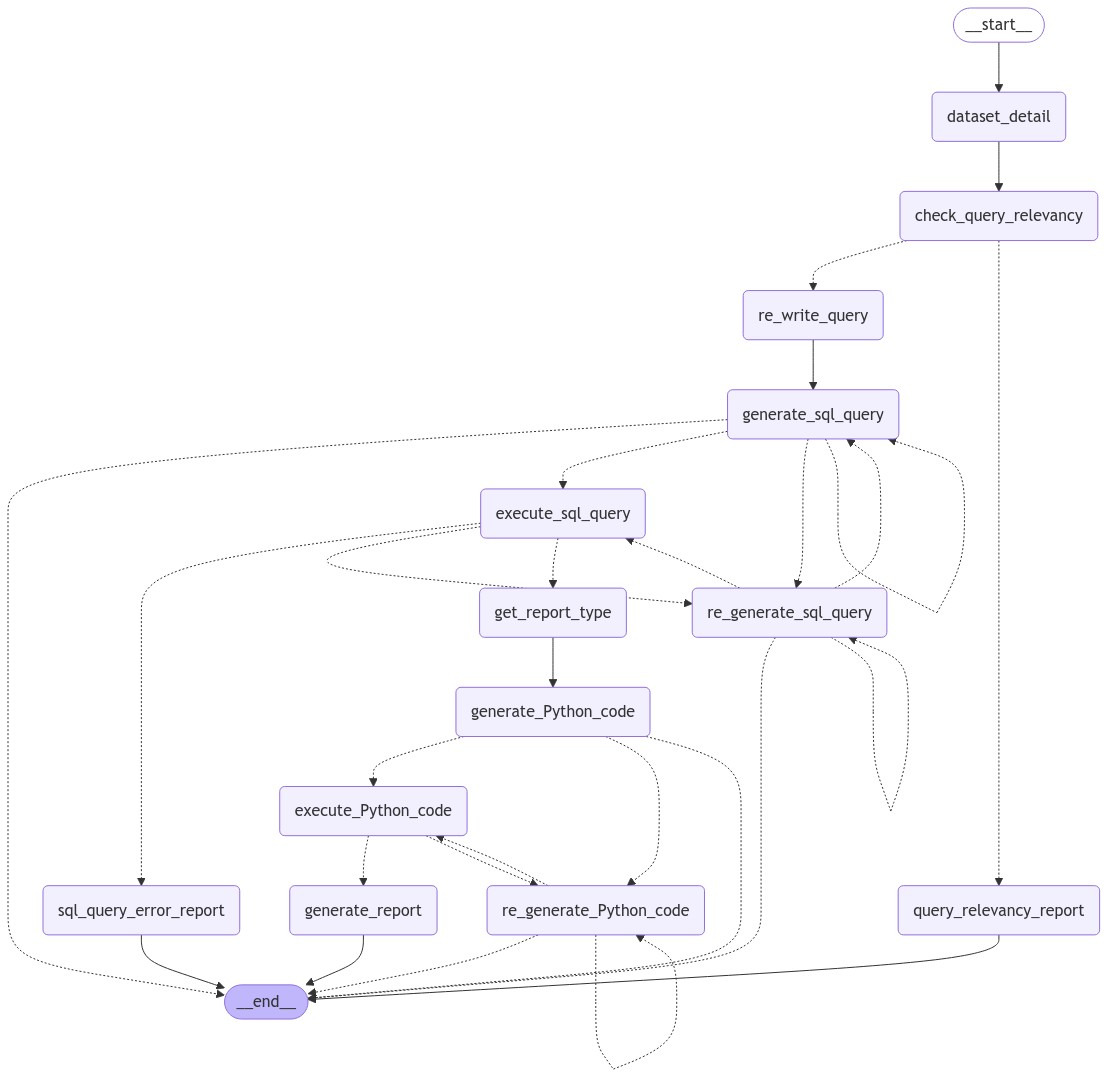
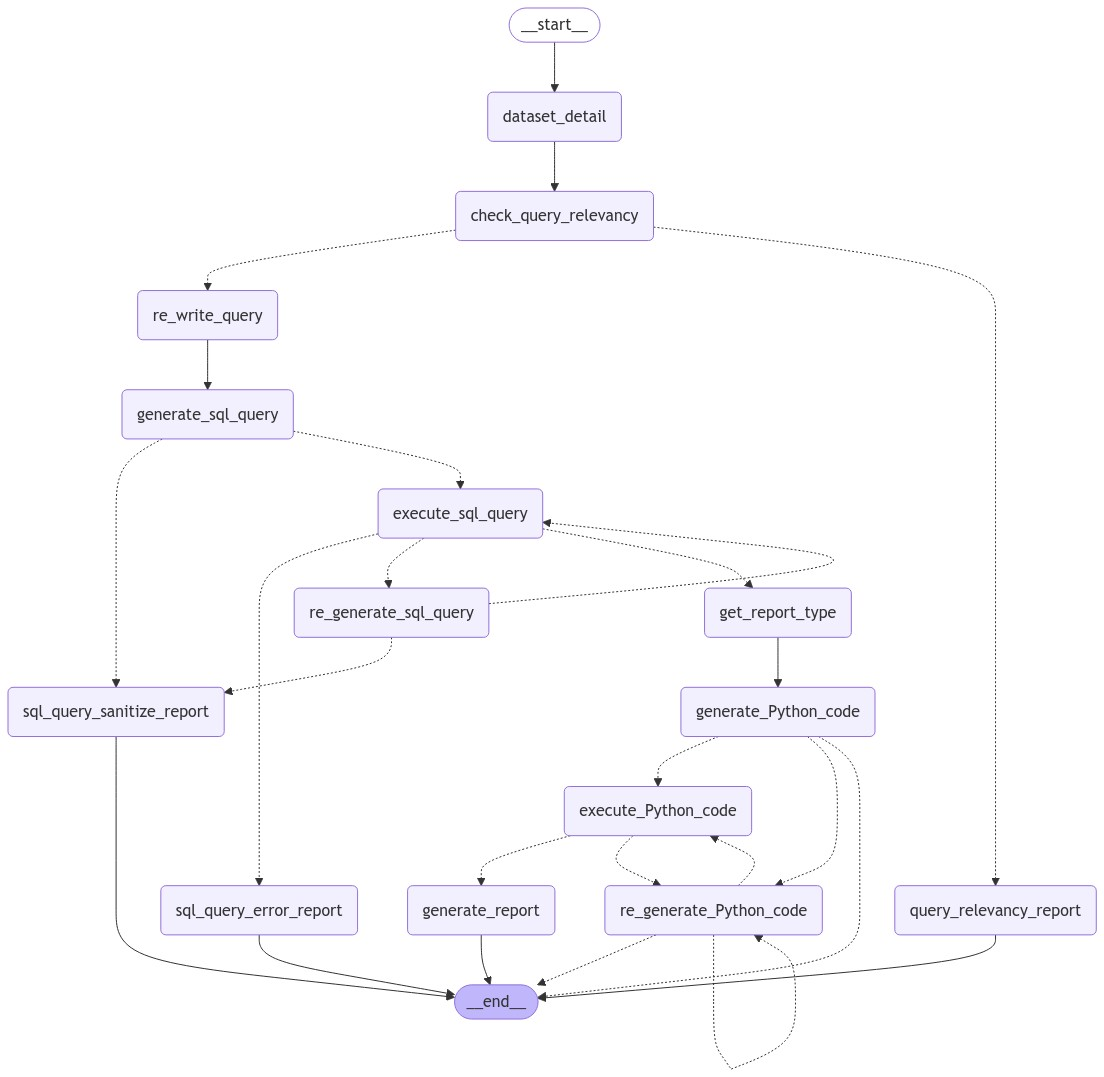
SQL query sanitize report node has been implemented.

diff --git a/nodes/sql_query_sanitize_node.py b/nodes/sql_query_sanitize_node.py
@@ -8,7 +8,7 @@ from langchain.prompts.chat import (
     SystemMessagePromptTemplate,
 )
 from nodes.agent_state import AgentState
-from nodes.nodes_name import EXECUTE_SQL_QUERY, QUERY_GENERATION, RE_GENERATE_SQL_QUERY
+from nodes.nodes_name import EXECUTE_SQL_QUERY, QUERY_GENERATION, RE_GENERATE_SQL_QUERY, SQL_QUERY_SANITIZE_REPORT
 from langchain_openai import ChatOpenAI
 from decouple import config
 
@@ -28,7 +28,7 @@ class sanitizing_queries(BaseModel):
     is_safe: bool
     reason: str
 
-def sanitize_sql_query(state:AgentState) -> Literal[ END, EXECUTE_SQL_QUERY, QUERY_GENERATION, RE_GENERATE_SQL_QUERY ]:
+def sanitize_sql_query(state:AgentState) -> Literal[ SQL_QUERY_SANITIZE_REPORT, EXECUTE_SQL_QUERY]:
     """
     This function uses OpenAI's LLM to sanitize a given SQL query, allowing only 'SELECT' operations.
     Any query that contains 'UPDATE', 'INSERT', 'DELETE', or other modifying operations will be flagged as unsafe.
@@ -47,8 +47,8 @@ def sanitize_sql_query(state:AgentState) -> Literal[ END, EXECUTE_SQL_QUERY, QUE
     llm = ChatOpenAI(model_name=GPT_MODEL, temperature=0, openai_api_key=OPENAI_API_KEY)
     
     sql_query = state["SQL_query"]
-    sanitize_check = state["sanitize_check"]
-    max_sanitize_check = state["max_sanitize_check"]
+    # sanitize_check = state["sanitize_check"]
+    # max_sanitize_check = state["max_sanitize_check"]
     
     # Define the system prompt to instruct the model to analyze the SQL query for safety
     prompt = ChatPromptTemplate.from_messages(
@@ -65,13 +65,18 @@ def sanitize_sql_query(state:AgentState) -> Literal[ END, EXECUTE_SQL_QUERY, QUE
     if response.is_safe == True:
         return EXECUTE_SQL_QUERY
     else:
-        if sanitize_check >= max_sanitize_check:
-            return END
-        sanitize_check = sanitize_check + 1
-        state.update({
-                "sanitize_check": sanitize_check,
-            })
-        if state['SQL_error']:
-            return RE_GENERATE_SQL_QUERY
-        else:
-            return QUERY_GENERATION
+        return SQL_QUERY_SANITIZE_REPORT
+        # if sanitize_check >= max_sanitize_check:
+        #     state.update({
+        #         "reports": response.reason,
+        #     })
+        #     return SQL_QUERY_SANITIZE_REPORT
+        # sanitize_check = sanitize_check + 1
+        # state.update({
+        #         "sanitize_check": sanitize_check,
+        #     })
+        # SQL_error = state.get('SQL_error', None)
+        # if SQL_error:
+        #     return RE_GENERATE_SQL_QUERY
+        # else:
+        #     return QUERY_GENERATION

diff --git a/analytics_graph_generator.py b/analytics_graph_generator.py
@@ -8,6 +8,7 @@ from nodes.query_re_write_node import re_write_query
 from nodes.get_dataset_detail_node import get_dataset_detail
 from nodes.sql_query_generation_node import generate_sql_query
 from nodes.sql_query_sanitize_node import sanitize_sql_query
+from nodes.sql_query_sanitize_report_node import sql_query_sanitize_report
 from nodes.sql_query_executer_node import execute_sql_query
 from nodes.sql_query_error_report_node import sql_query_error_report
 from nodes.sql_query_regeneration_node import regenerate_sql_query
@@ -33,6 +34,7 @@ from nodes.nodes_name import (
     PYTHON_CODE_EXECUTER,
     PYTHON_CODE_RE_GENERATION,
     REPORT_GENERATOR,
+    SQL_QUERY_SANITIZE_REPORT,
     REPORT_TYPE,
 )
 
@@ -48,6 +50,8 @@ def generate_graph()-> CompiledGraph:
     workflow.add_node(EXECUTE_SQL_QUERY, execute_sql_query)
     workflow.add_node(SQL_QUERY_EXECUTION_ERROR_REPORT, sql_query_error_report)
     workflow.add_node(RE_GENERATE_SQL_QUERY, regenerate_sql_query)
+
+    workflow.add_node(SQL_QUERY_SANITIZE_REPORT, sql_query_sanitize_report)
 
     workflow.add_node(REPORT_TYPE, get_report_type)
 
@@ -100,6 +104,7 @@ def generate_graph()-> CompiledGraph:
     )
 
     workflow.add_edge(QUERY_RELEVANCY_REPORT, END)
+    workflow.add_edge(SQL_QUERY_SANITIZE_REPORT, END)
     workflow.add_edge(SQL_QUERY_EXECUTION_ERROR_REPORT, END)
     workflow.add_edge(REPORT_GENERATOR, END)
 
@@ -115,8 +120,6 @@ def get_reports(dataset_name, query):
 
     results = app.invoke({"dataset_name": dataset_name, 
                 "query": query, 
-                "sanitize_check": 0,
-                "max_sanitize_check": 5,
                 "sql_generation_try": 0,
                 "max_sql_generation_try": 5,
                 'Python_script_check': 0,
@@ -125,6 +128,3 @@ def get_reports(dataset_name, query):
 
    
     return results.get("reports", "No reports found")
-
-# reports = get_reports("Green Trip Data", "Average Trip Distance by Payment Type")
-# print(reports)

diff --git a/nodes/sql_query_sanitize_report_node.py b/nodes/sql_query_sanitize_report_node.py
@@ -1,0 +1,42 @@
+from nodes.agent_state import AgentState
+from langchain_core.messages import HumanMessage, SystemMessage
+from langchain.prompts.chat import (
+    ChatPromptTemplate,
+    HumanMessagePromptTemplate,
+    SystemMessagePromptTemplate,
+)
+from langchain.schema import StrOutputParser
+from langchain_openai import ChatOpenAI
+from decouple import config
+
+
+sys_msg = """
+    You are an expert in SQL security. Your task is to analyze a given SQL query and determine whether it is a safe read-only query. 
+    Only queries that retrieve data (i.e., SELECT queries) are allowed. 
+    If the query contains any modifying operations like INSERT, UPDATE, DELETE, DROP, ALTER, or TRUNCATE, mark it as unsafe.
+
+    Explain why the sql query is unsafe in plain and simple English to make it clear and user-friendly, ensuring the user understands the problem and can take corrective action. 
+"""
+
+
+def sql_query_sanitize_report(state: AgentState) -> AgentState:
+    print("--- SQL QUERY SANITIZE REPORT ---")
+
+    OPENAI_API_KEY = config("OPENAI_API_KEY")
+    GPT_MODEL = config("GPT_MODEL")
+
+    sql_query = state["SQL_query"]
+
+    llm = ChatOpenAI(model_name=GPT_MODEL, temperature=0, openai_api_key=OPENAI_API_KEY)
+    
+    prompt = ChatPromptTemplate.from_messages(
+        [
+            SystemMessage(content=sys_msg),
+            HumanMessage(content=f"""SQL query: {sql_query}""")
+        ]
+    )
+
+    chain = prompt | llm | StrOutputParser()
+    SQL_sanitizer_report = chain.invoke({"sql_query": sql_query})
+
+    return {"reports": SQL_sanitizer_report}

diff --git a/nodes/nodes_name.py b/nodes/nodes_name.py
@@ -13,5 +13,6 @@ QUERY_GENERATION = "generate_sql_query"
 SANITIZE_SQL_QUERY = "sanitize_sql_query"
 EXECUTE_SQL_QUERY = "execute_sql_query"
 SQL_QUERY_EXECUTION_ERROR_REPORT = "sql_query_error_report"
+SQL_QUERY_SANITIZE_REPORT = "sql_query_sanitize_report"
 RE_GENERATE_SQL_QUERY = "re_generate_sql_query"
 REPORT_TYPE = "get_report_type"

diff --git a/nodes/agent_state.py b/nodes/agent_state.py
@@ -16,8 +16,6 @@ class AgentState(TypedDict):
     sample_data: str
     is_query_relevant: bool
     SQL_query: str
-    sanitize_check: int
-    max_sanitize_check: int
     SQL_error: str
     sql_generation_try: int
     max_sql_generation_try: int
